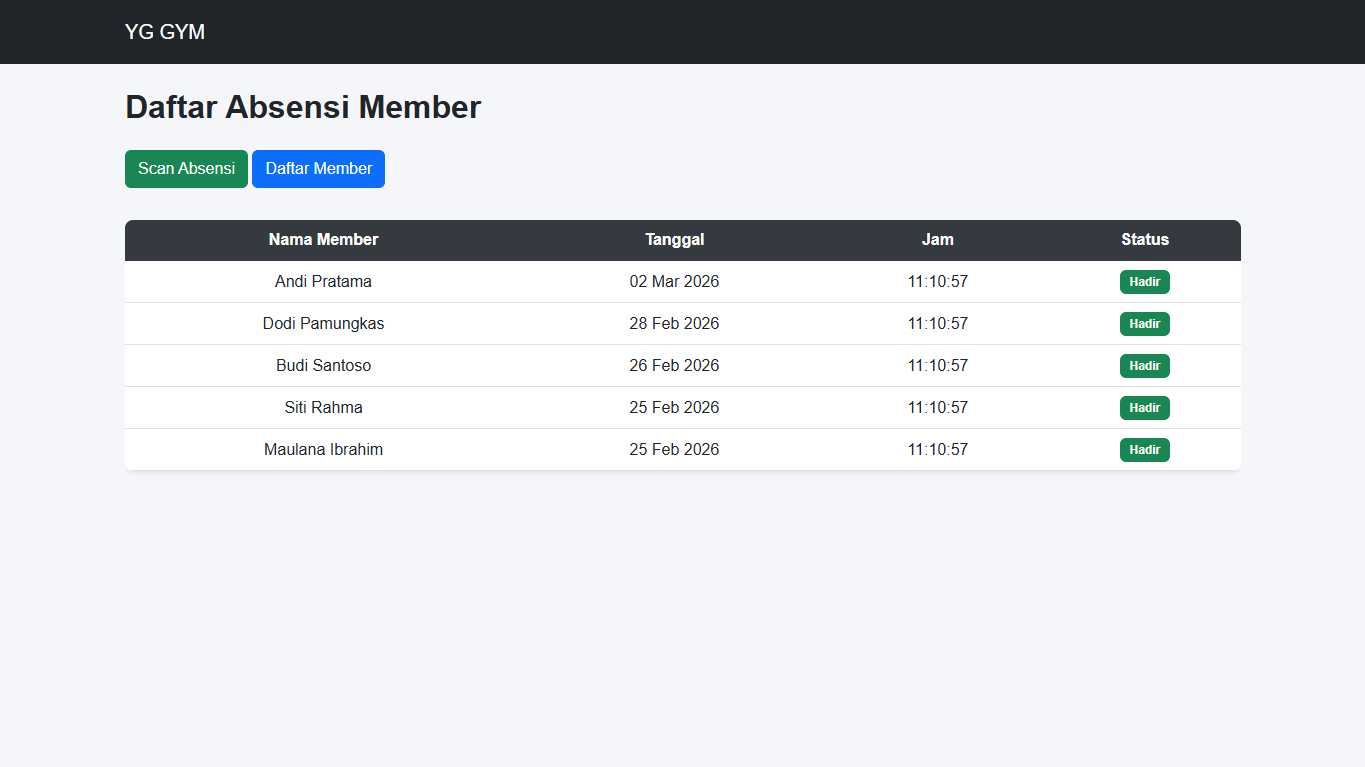
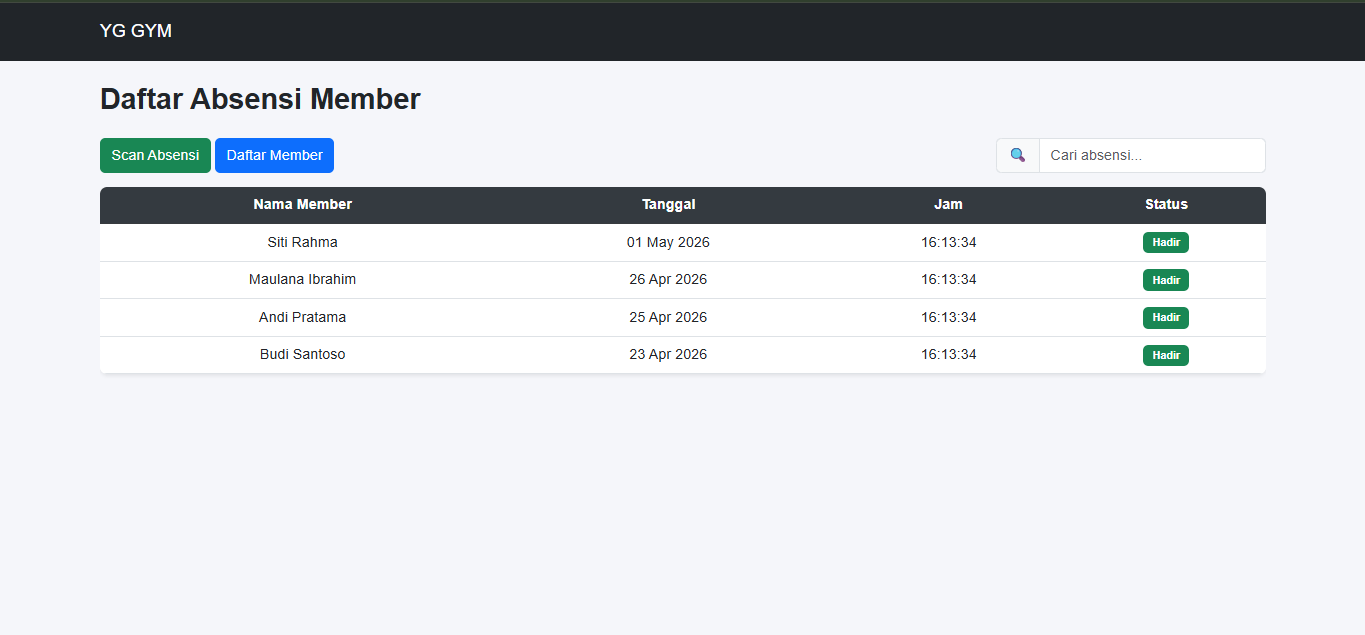
Update: perbaikan UI edit member, tambah search, integrasi jQuery

Changed region(s): [[0.0, 0.0, 1.0, 0.6283]]

diff --git a/resources/views/member/edit.blade.php b/resources/views/member/edit.blade.php
@@ -1,78 +1,106 @@
 @extends('layouts.app')
+
 @section('content')
 <div class="container py-4">
-<h3 class="mb-4 text-center">Edit Data Member</h3>
-<div class="card shadow-sm p-4">
-<form action="{{ route('member.update', $member->id) }}" method="POST" enctype="multipart/form-data">
-@csrf
-@method('PUT')
-<div class="row g-3">
-<!-- FOTO -->
-<div class="row mb-4 align-items-center">
-<div class="col-md-6 text-center">
-@if($member->foto)
-<img src="{{ asset('uploads/members/' . $member->foto) }}"
-class="rounded shadow mb-2"
-style="width:200px;height:200px;object-fit:cover;">
-@else
-<div class="text-muted">Belum ada foto</div>
-@endif
-<br><label class="form-label">Ganti Foto</label>
-<input type="file" class="form-control" name="foto">
-</div>
-<div class="col-md-6 text-center">
-@if($member->qr_code)
-<h6 class="fw-bold mb-2">{{ $member->qr_code }}</h6>
-<div class="mb-2">
-{!! QrCode::size(150)->generate($member->qr_code) !!}
-</div>
-<label class="form-label">QR Code Member</label><br>
-<a href="{{ route('member.qrcode.download',$member->id) }}"
-class="btn btn-success btn-sm">
-Download QR Code
-</a>
-@endif
-</div>
-</div>
-<!-- NAMA -->
-<div class="col-md-6">
-<label class="form-label">Nama</label>
-<input type="text" name="nama" class="form-control" value="{{ old('nama', $member->nama) }}" required>
-</div>
-<!-- NO HP -->
-<div class="col-md-6">
-<label class="form-label">No HP</label>
-<input type="text" name="no_hp" class="form-control" value="{{ old('no_hp', $member->no_hp) }}">
-</div>
-<!-- ALAMAT -->
-<div class="col-12">
-<label class="form-label">Alamat</label>
-<textarea name="alamat" class="form-control" rows="2">{{ old('alamat', $member->alamat) }}</textarea>
-</div>
-<!-- PAKET -->
-<div class="col-md-6">
-<label class="form-label">Paket</label>
-<select name="paket" id="paket" class="form-select" required>
-<option value="Bulanan" {{ $member->paket == 'Bulanan' ? 'selected' : '' }}>Bulanan</option>
-</select>
-</div>
-<!-- MASA AKTIF -->
-<div class="col-md-6">
-<label class="form-label">Masa Aktif</label>
-<input type="date"
-name="masa_aktif"
-id="masa_aktif"
-class="form-control"
-value="{{ old('masa_aktif', $member->masa_aktif ? $member->masa_aktif->format('Y-m-d') : '') }}">
-</div>
-<!-- TOMBOL -->
-<div class="col-12 text-center mt-4">
-<button type="submit" class="btn btn-primary px-4">Simpan Perubahan</button>
-<br><br>
-<a href="{{ route('member.index') }}" class="btn btn-secondary px-4 ms-2">Kembali</a>
-</div>
-</div>
-</form>
-</div>
+    <h3 class="mb-4 text-center">Edit Data Member</h3>
+
+    <div class="card shadow-sm p-4">
+        <form action="{{ route('member.update', $member->id) }}" method="POST" enctype="multipart/form-data">
+            @csrf
+            @method('PUT')
+
+            <div class="row g-3">
+
+                <!-- FOTO & QR -->
+            <div class="col-12">
+                <div class="row mb-4 align-items-start">
+
+                    <div class="col-md-6 text-center">
+                        <div class="mx-auto mb-2" style="width:180px;">
+                            @if($member->foto)
+                                <img src="{{ asset('uploads/members/' . $member->foto) }}"
+                                     class="rounded shadow"
+                                     style="width:180px;height:180px;object-fit:cover;">
+                            @else
+                                <div class="text-muted">Belum ada foto</div>
+                            @endif
+                        </div>
+
+                        <label class="form-label d-block">Ganti Foto</label>
+                        <input type="file" class="form-control" name="foto">
+                    </div>
+
+                    <div class="col-md-6 text-center">
+                        @if($member->qr_code)
+                            <h6 class="fw-bold mb-2">{{ $member->qr_code }}</h6>
+
+                            <div class="mx-auto mb-2" style="width:150px;">
+                                {!! QrCode::size(150)->generate($member->qr_code) !!}
+                            </div>
+
+                            <label class="form-label d-block">QR Code Member</label>
+
+                            <a href="{{ route('member.qrcode.download',$member->id) }}"
+                               class="btn btn-success btn-sm">
+                                Download QR Code
+                            </a>
+                        @endif
+                    </div>
+
+                </div>
+            </div>
+
+                <!-- NAMA -->
+                <div class="col-md-6">
+                    <label class="form-label">Nama</label>
+                    <input type="text" name="nama" class="form-control" value="{{ old('nama', $member->nama) }}" required>
+                </div>
+
+                <!-- NO HP -->
+                <div class="col-md-6">
+                    <label class="form-label">No HP</label>
+                    <input type="text" name="no_hp" class="form-control" value="{{ old('no_hp', $member->no_hp) }}">
+                </div>
+
+                <!-- ALAMAT -->
+                <div class="col-12">
+                    <label class="form-label">Alamat</label>
+                    <textarea name="alamat" class="form-control" rows="2">{{ old('alamat', $member->alamat) }}</textarea>
+                </div>
+
+                <!-- PAKET -->
+                <div class="col-md-6">
+                    <label class="form-label">Paket</label>
+                    <select name="paket" id="paket" class="form-select" required>
+                        <option value="Bulanan" {{ $member->paket == 'Bulanan' ? 'selected' : '' }}>Bulanan</option>
+                    </select>
+                </div>
+
+                <!-- MASA AKTIF -->
+                <div class="col-md-6">
+                    <label class="form-label">Masa Aktif</label>
+                    <input type="date"
+                           name="masa_aktif"
+                           id="masa_aktif"
+                           class="form-control"
+                           value="{{ old('masa_aktif', $member->masa_aktif ? $member->masa_aktif->format('Y-m-d') : '') }}">
+                </div>
+
+                <!-- TOMBOL -->
+                <div class="col-12 text-center mt-4">
+                    <button type="submit" class="btn btn-primary px-4">
+                        Simpan Perubahan
+                    </button>
+
+                    <br><br>
+
+                    <a href="{{ route('member.index') }}" class="btn btn-secondary px-4">
+                        Kembali
+                    </a>
+                </div>
+
+            </div>
+        </form>
+    </div>
 </div>
 @endsection
